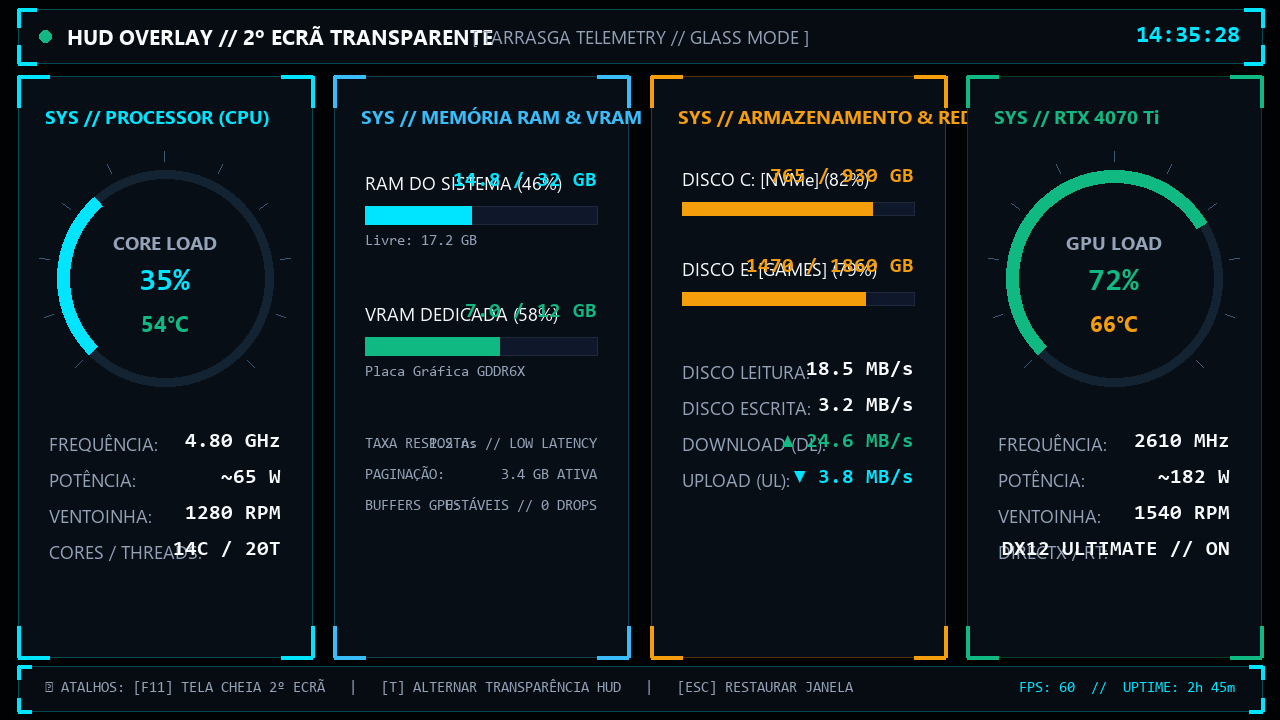
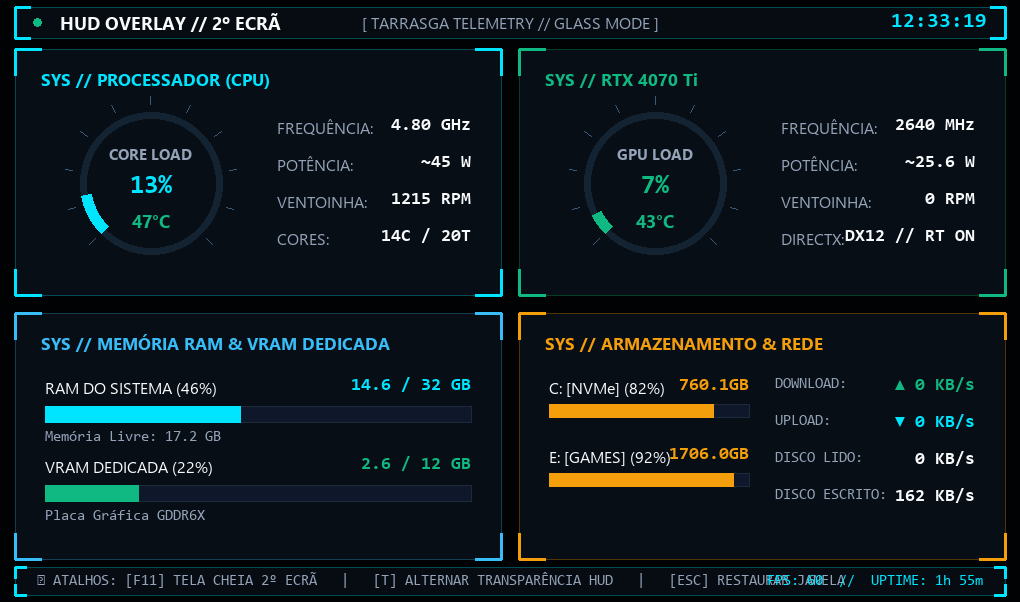
Corrigir sobreposicao de texto no tema HUD Transparente com grelha 2x2 responsiva e espacamento perfeito

diff --git a/SmartCoolApp/app.py b/SmartCoolApp/app.py
@@ -2552,7 +2552,7 @@ class SmartCoolApp:
     def render_transparent_hud_view(self, stats, width=1280, height=720):
         """Renderiza o tema 'HUD Overlay Transparente (Glass HUD)'.
         Utiliza a cor chroma-key (1, 2, 3) no fundo para transparência 100% nativa no Windows DWM,
-        deixando os mostradores e cartões de vidro a flutuar diretamente sobre o 2º ecrã!"""
+        deixando os mostradores e cartões de vidro a flutuar diretamente sobre o 2º ecrã sem colisões de texto!"""
         scale = height / 320.0
         is_compact = (width <= 640)
 
@@ -2560,13 +2560,13 @@ class SmartCoolApp:
         img = Image.new("RGB", (width, height), (1, 2, 3))
         draw = ImageDraw.Draw(img)
 
-        # Fontes escaladas
-        f_header = self._get_font("ui", 9.5, scale, bold=True)
-        f_clock = self._get_font("mono", 11, scale, bold=True)
-        f_title = self._get_font("ui", 8.5, scale, bold=True)
-        f_val = self._get_font("mono", 9.5, scale, bold=True)
-        f_small = self._get_font("ui", 8.0, scale, bold=False)
-        f_micro = self._get_font("mono", 7.0, scale, bold=False)
+        # Fontes escaladas com fator controlado para evitar fontes gigantes e colisões
+        f_header = self._get_font("ui", 10.0, scale, bold=True)
+        f_clock = self._get_font("mono", 11.5, scale, bold=True)
+        f_title = self._get_font("ui", 9.5, scale, bold=True)
+        f_val = self._get_font("mono", 10.0, scale, bold=True)
+        f_small = self._get_font("ui", 9.0, scale, bold=False)
+        f_micro = self._get_font("mono", 8.0, scale, bold=False)
 
         c_cyan = "#00e5ff"
         c_emerald = "#10b981"
@@ -2576,22 +2576,31 @@ class SmartCoolApp:
         c_white = "#f8fafc"
 
         # Barra Superior Flutuante
-        top_h = int(24 * scale)
+        top_h = int(24 * min(1.3, scale))
         self._draw_hud_bracket_card(draw, int(8*scale), int(4*scale), width - int(8*scale), top_h + int(4*scale), scale, fill=(6, 12, 18), border=(0, 229, 255), bracket_len=8)
 
-        dot_r = int(3 * scale)
+        dot_r = int(3.5 * min(1.3, scale))
         dot_cx = int(20 * scale)
-        dot_cy = int(16 * scale)
+        dot_cy = (int(4*scale) + top_h + int(4*scale)) // 2
         draw.ellipse([dot_cx - dot_r, dot_cy - dot_r, dot_cx + dot_r, dot_cy + dot_r], fill=c_emerald)
 
-        draw.text((int(30 * scale), int(16 * scale)), "HUD OVERLAY // 2º ECRÃ TRANSPARENTE", fill=c_white, font=f_header, anchor="lm")
-        if not is_compact:
-            draw.text((int(width * 0.5), int(16 * scale)), "[ TARRASGA TELEMETRY // GLASS MODE ]", fill=c_slate, font=f_small, anchor="mm")
-        draw.text((width - int(18 * scale), int(16 * scale)), stats.get("time", "12:00:00"), fill=c_cyan, font=f_clock, anchor="rm")
+        title_text = "HUD OVERLAY // 2º ECRÃ"
+        draw.text((int(32 * scale), dot_cy), title_text, fill=c_white, font=f_header, anchor="lm")
+        t_bbox = draw.textbbox((int(32 * scale), dot_cy), title_text, font=f_header, anchor="lm")
+
+        clock_str = stats.get("time", "12:00:00")
+        c_bbox = draw.textbbox((width - int(18 * scale), dot_cy), clock_str, font=f_clock, anchor="rm")
+        draw.text((width - int(18 * scale), dot_cy), clock_str, fill=c_cyan, font=f_clock, anchor="rm")
+
+        # Desenha subtítulo central apenas se houver espaço livre suficiente (garante zero sobreposição)
+        sub_text = "[ TARRASGA TELEMETRY // GLASS MODE ]"
+        sub_bbox = draw.textbbox((width // 2, dot_cy), sub_text, font=f_small, anchor="mm")
+        if t_bbox[2] + 40 < sub_bbox[0] and sub_bbox[2] + 40 < c_bbox[0]:
+            draw.text((width // 2, dot_cy), sub_text, fill=c_slate, font=f_small, anchor="mm")
 
         # Conteúdo Central
         content_y0 = top_h + int(10 * scale)
-        bot_h = int(20 * scale)
+        bot_h = int(22 * min(1.3, scale))
         content_y1 = height - bot_h - int(8 * scale)
 
         pad = int(8 * scale)
@@ -2625,154 +2634,169 @@ class SmartCoolApp:
             draw.text(((c1_x0 + c1_x1)//2, content_y0 + int(130*scale)), f"NET DL: {stats.get('net_down_str', '12.4 MB/s')} | PWR: ~{stats.get('gpu_power', 165)}W", fill=c_slate, font=f_small, anchor="mm")
 
         else:
-            # Layout HD de 4 Colunas (1280x720 / 1920x1080)
-            gap = int(10 * scale)
-            col_w = (usable_w - (3 * gap)) / 4.0
-            cols = []
-            for i in range(4):
-                x0 = int(pad + i * (col_w + gap))
-                x1 = int(x0 + col_w)
-                cols.append((x0, x1))
+            # Grelha 2x2 Ampla (Perfeita para 1020x602, 1280x720 e 1920x1080)
+            gap_x = int(10 * scale)
+            gap_y = int(10 * scale)
+            card_w = (usable_w - gap_x) // 2
+            card_h = (content_y1 - content_y0 - gap_y) // 2
 
-            # 1. PROCESSADOR (CPU)
-            c0_x0, c0_x1 = cols[0]
-            self._draw_hud_bracket_card(draw, c0_x0, content_y0, c0_x1, content_y1, scale, fill=(8, 14, 22), border=(0, 229, 255), bracket_len=14)
-            draw.text((c0_x0 + int(12*scale), content_y0 + int(12*scale)), "SYS // PROCESSADOR (CPU)", fill=c_cyan, font=f_title)
+            # 1. Cartão Top-Left: PROCESSADOR (CPU)
+            c0_x0 = pad
+            c0_y0 = content_y0
+            c0_x1 = c0_x0 + card_w
+            c0_y1 = c0_y0 + card_h
+            self._draw_hud_bracket_card(draw, c0_x0, c0_y0, c0_x1, c0_y1, scale, fill=(8, 14, 22), border=(0, 229, 255), bracket_len=14)
+            draw.text((c0_x0 + int(14*scale), c0_y0 + int(10*scale)), "SYS // PROCESSADOR (CPU)", fill=c_cyan, font=f_title)
 
-            cpu_u = stats.get("cpu_usage", 42)
-            cpu_t = stats.get("cpu_temp", 58)
+            dial_cx = c0_x0 + int(card_w * 0.28)
+            dial_cy = (c0_y0 + c0_y1) // 2 + int(6*scale)
+            cpu_u = stats.get("cpu_usage", 35)
+            cpu_t = stats.get("cpu_temp", 54)
             cpu_t_col = c_red if cpu_t >= 75 else (c_amber if cpu_t >= 60 else c_emerald)
-            cx0 = (c0_x0 + c0_x1) // 2
-            cy0 = content_y0 + int(90 * scale)
-            self._draw_circular_hud_meter(draw, cx0, cy0, 48, cpu_u, scale, label="CORE LOAD", val_str=f"{cpu_u}%", temp_str=f"{cpu_t}°C", primary_color=c_cyan, temp_color=cpu_t_col)
+            self._draw_circular_hud_meter(draw, dial_cx, dial_cy, 38, cpu_u, scale, label="CORE LOAD", val_str=f"{cpu_u}%", temp_str=f"{cpu_t}°C", primary_color=c_cyan, temp_color=cpu_t_col)
 
+            rx0 = c0_x0 + int(card_w * 0.54)
+            rx1 = c0_x1 - int(16*scale)
             lines_cpu = [
                 ("FREQUÊNCIA:", f"{stats.get('cpu_clock', 4.80):.2f} GHz"),
-                ("POTÊNCIA:", f"~{stats.get('cpu_power', 68)} W"),
-                ("VENTOINHA:", f"{stats.get('cpu_fan', 1350)} RPM"),
-                ("CORES / THREADS:", f"{stats.get('cpu_cores', '14C / 20T')}"),
+                ("POTÊNCIA:", f"~{stats.get('cpu_power', 65)} W"),
+                ("VENTOINHA:", f"{stats.get('cpu_fan', 1280)} RPM"),
+                ("CORES:", f"{stats.get('cpu_cores', '14C / 20T')}"),
             ]
-            ly = cy0 + int(68 * scale)
+            ry = c0_y0 + int(36*scale)
+            step_y = max(18, int((c0_y1 - c0_y0 - 52*scale) / len(lines_cpu)))
             for lbl, v in lines_cpu:
-                draw.text((c0_x0 + int(14*scale), ly), lbl, fill=c_slate, font=f_small)
-                draw.text((c0_x1 - int(14*scale), ly), v, fill=c_white, font=f_val, anchor="ra")
-                ly += int(16 * scale)
+                draw.text((rx0, ry), lbl, fill=c_slate, font=f_small, anchor="la")
+                draw.text((rx1, ry), v, fill=c_white, font=f_val, anchor="ra")
+                ry += step_y
 
-            # 2. MEMÓRIA RAM & VRAM
-            c1_x0, c1_x1 = cols[1]
-            self._draw_hud_bracket_card(draw, c1_x0, content_y0, c1_x1, content_y1, scale, fill=(8, 14, 22), border=(56, 189, 248), bracket_len=14)
-            draw.text((c1_x0 + int(12*scale), content_y0 + int(12*scale)), "SYS // MEMÓRIA RAM & VRAM", fill="#38bdf8", font=f_title)
+            # 2. Cartão Top-Right: PLACA GRÁFICA (GPU)
+            c1_x0 = c0_x1 + gap_x
+            c1_y0 = content_y0
+            c1_x1 = width - pad
+            c1_y1 = c1_y0 + card_h
+            self._draw_hud_bracket_card(draw, c1_x0, c1_y0, c1_x1, c1_y1, scale, fill=(8, 14, 22), border=(16, 185, 129), bracket_len=14)
+            draw.text((c1_x0 + int(14*scale), c1_y0 + int(10*scale)), f"SYS // {stats.get('gpu_name', 'GEFORCE RTX')}", fill=c_emerald, font=f_title)
 
-            ram_pct = stats.get("ram_usage_pct", 48)
-            draw.text((c1_x0 + int(14*scale), content_y0 + int(42*scale)), f"RAM DO SISTEMA ({ram_pct}%)", fill=c_white, font=f_small)
-            draw.text((c1_x1 - int(14*scale), content_y0 + int(42*scale)), f"{stats.get('ram_used_gb', 15.4):.1f} / {stats.get('ram_total_gb', 32.0):.0f} GB", fill=c_cyan, font=f_val, anchor="ra")
+            g_dial_cx = c1_x0 + int(card_w * 0.28)
+            g_dial_cy = dial_cy
+            gpu_u = stats.get("gpu_usage", 72)
+            gpu_t = stats.get("gpu_temp", 66)
+            gpu_t_col = c_red if gpu_t >= 75 else (c_amber if gpu_t >= 60 else c_emerald)
+            self._draw_circular_hud_meter(draw, g_dial_cx, g_dial_cy, 38, gpu_u, scale, label="GPU LOAD", val_str=f"{gpu_u}%", temp_str=f"{gpu_t}°C", primary_color=c_emerald, temp_color=gpu_t_col)
 
-            bx0 = c1_x0 + int(14*scale)
-            bx1 = c1_x1 - int(14*scale)
-            by0 = content_y0 + int(58*scale)
-            by1 = by0 + int(8*scale)
+            grx0 = c1_x0 + int(card_w * 0.54)
+            grx1 = c1_x1 - int(16*scale)
+            lines_gpu = [
+                ("FREQUÊNCIA:", f"{stats.get('gpu_clock', 2610)} MHz"),
+                ("POTÊNCIA:", f"~{stats.get('gpu_power', 182)} W"),
+                ("VENTOINHA:", f"{stats.get('gpu_fan', 1540)} RPM"),
+                ("DIRECTX:", "DX12 // RT ON"),
+            ]
+            gry = c1_y0 + int(36*scale)
+            for lbl, v in lines_gpu:
+                draw.text((grx0, gry), lbl, fill=c_slate, font=f_small, anchor="la")
+                draw.text((grx1, gry), v, fill=c_white, font=f_val, anchor="ra")
+                gry += step_y
+
+            # 3. Cartão Bottom-Left: MEMÓRIA RAM & VRAM
+            c2_x0 = pad
+            c2_y0 = c0_y1 + gap_y
+            c2_x1 = c2_x0 + card_w
+            c2_y1 = content_y1
+            self._draw_hud_bracket_card(draw, c2_x0, c2_y0, c2_x1, c2_y1, scale, fill=(8, 14, 22), border=(56, 189, 248), bracket_len=14)
+            draw.text((c2_x0 + int(14*scale), c2_y0 + int(10*scale)), "SYS // MEMÓRIA RAM & VRAM DEDICADA", fill="#38bdf8", font=f_title)
+
+            # RAM Bar
+            ram_pct = stats.get("ram_usage_pct", 46)
+            my_y0 = c2_y0 + int(34*scale)
+            draw.text((c2_x0 + int(16*scale), my_y0), f"RAM DO SISTEMA ({ram_pct}%)", fill=c_white, font=f_small, anchor="la")
+            draw.text((c2_x1 - int(16*scale), my_y0), f"{stats.get('ram_used_gb', 14.8):.1f} / {stats.get('ram_total_gb', 32.0):.0f} GB", fill=c_cyan, font=f_val, anchor="ra")
+
+            bx0 = c2_x0 + int(16*scale)
+            bx1 = c2_x1 - int(16*scale)
+            by0 = my_y0 + int(16*scale)
+            by1 = by0 + int(9*scale)
             draw.rectangle([bx0, by0, bx1, by1], fill=(15, 23, 42), outline=(30, 41, 59))
             fill_w = int((bx1 - bx0) * (ram_pct / 100.0))
             if fill_w > 0:
                 draw.rectangle([bx0, by0, bx0 + fill_w, by1], fill=c_cyan)
-            draw.text((c1_x0 + int(14*scale), by1 + int(4*scale)), f"Livre: {stats.get('ram_free_gb', 16.6):.1f} GB", fill=c_slate, font=f_micro)
+            draw.text((c2_x0 + int(16*scale), by1 + int(4*scale)), f"Memória Livre: {stats.get('ram_free_gb', 17.2):.1f} GB", fill=c_slate, font=f_micro)
 
-            vram_pct = stats.get("gpu_vram_pct", 54)
-            draw.text((c1_x0 + int(14*scale), content_y0 + int(100*scale)), f"VRAM DEDICADA ({vram_pct}%)", fill=c_white, font=f_small)
-            draw.text((c1_x1 - int(14*scale), content_y0 + int(100*scale)), f"{stats.get('gpu_vram_used', 6.5):.1f} / {stats.get('gpu_vram_total', 12.0):.0f} GB", fill=c_emerald, font=f_val, anchor="ra")
+            # VRAM Bar
+            vram_pct = stats.get("gpu_vram_pct", 58)
+            vy_y0 = by1 + int(18*scale)
+            draw.text((c2_x0 + int(16*scale), vy_y0), f"VRAM DEDICADA ({vram_pct}%)", fill=c_white, font=f_small, anchor="la")
+            draw.text((c2_x1 - int(16*scale), vy_y0), f"{stats.get('gpu_vram_used', 7.0):.1f} / {stats.get('gpu_vram_total', 12.0):.0f} GB", fill=c_emerald, font=f_val, anchor="ra")
 
-            v_by0 = content_y0 + int(116*scale)
-            v_by1 = v_by0 + int(8*scale)
+            v_by0 = vy_y0 + int(16*scale)
+            v_by1 = v_by0 + int(9*scale)
             draw.rectangle([bx0, v_by0, bx1, v_by1], fill=(15, 23, 42), outline=(30, 41, 59))
             vfill_w = int((bx1 - bx0) * (vram_pct / 100.0))
             if vfill_w > 0:
                 draw.rectangle([bx0, v_by0, bx0 + vfill_w, v_by1], fill=c_emerald)
-            draw.text((c1_x0 + int(14*scale), v_by1 + int(4*scale)), "Placa Gráfica GDDR6X", fill=c_slate, font=f_micro)
+            draw.text((c2_x0 + int(16*scale), v_by1 + int(4*scale)), "Placa Gráfica GDDR6X", fill=c_slate, font=f_micro)
 
-            m_ly = content_y0 + int(160 * scale)
-            lines_mem = [
-                ("TAXA RESPOSTA:", "1.2 ns // LOW LATENCY"),
-                ("PAGINAÇÃO:", "3.4 GB ATIVA"),
-                ("BUFFERS GPU:", "ESTÁVEIS // 0 DROPS"),
+            # 4. Cartão Bottom-Right: ARMAZENAMENTO & REDE
+            c3_x0 = c2_x1 + gap_x
+            c3_y0 = c1_y1 + gap_y
+            c3_x1 = width - pad
+            c3_y1 = content_y1
+            self._draw_hud_bracket_card(draw, c3_x0, c3_y0, c3_x1, c3_y1, scale, fill=(8, 14, 22), border=(245, 158, 11), bracket_len=14)
+            draw.text((c3_x0 + int(14*scale), c3_y0 + int(10*scale)), "SYS // ARMAZENAMENTO & REDE", fill=c_amber, font=f_title)
+
+            sub_gap = int(14 * scale)
+            sub_w = (card_w - int(32*scale) - sub_gap) // 2
+            d_x0 = c3_x0 + int(16*scale)
+            d_x1 = d_x0 + sub_w
+
+            # Disco C:
+            c_pct = stats.get("disk_c_pct", 82)
+            dy0 = c3_y0 + int(34*scale)
+            draw.text((d_x0, dy0), f"C: [NVMe] ({c_pct}%)", fill=c_white, font=f_small, anchor="la")
+            draw.text((d_x1, dy0), f"{stats.get('disk_c_used', 765)}GB", fill=c_amber, font=f_val, anchor="ra")
+            c_bar_y0 = dy0 + int(15*scale)
+            c_bar_y1 = c_bar_y0 + int(7*scale)
+            draw.rectangle([d_x0, c_bar_y0, d_x1, c_bar_y1], fill=(15, 23, 42), outline=(30, 41, 59))
+            if c_pct > 0:
+                draw.rectangle([d_x0, c_bar_y0, d_x0 + int((d_x1 - d_x0)*(c_pct/100.0)), c_bar_y1], fill=c_amber)
+
+            # Disco E:
+            e_pct = stats.get("disk_e_pct", 79)
+            ey0 = c_bar_y1 + int(15*scale)
+            draw.text((d_x0, ey0), f"E: [GAMES] ({e_pct}%)", fill=c_white, font=f_small, anchor="la")
+            draw.text((d_x1, ey0), f"{stats.get('disk_e_used', 1470)}GB", fill=c_amber, font=f_val, anchor="ra")
+            e_bar_y0 = ey0 + int(15*scale)
+            e_bar_y1 = e_bar_y0 + int(7*scale)
+            draw.rectangle([d_x0, e_bar_y0, d_x1, e_bar_y1], fill=(15, 23, 42), outline=(30, 41, 59))
+            if e_pct > 0:
+                draw.rectangle([d_x0, e_bar_y0, d_x0 + int((d_x1 - d_x0)*(e_pct/100.0)), e_bar_y1], fill=c_amber)
+
+            # Sub-coluna Direita: Rede & I/O
+            net_x0 = d_x1 + sub_gap
+            net_x1 = c3_x1 - int(16*scale)
+            lines_net = [
+                ("DOWNLOAD:", f"▲ {stats.get('net_down_str', '24.6 MB/s')}"),
+                ("UPLOAD:", f"▼ {stats.get('net_up_str', '3.8 MB/s')}"),
+                ("DISCO LIDO:", stats.get("disk_read_str", "18.5 MB/s")),
+                ("DISCO ESCRITO:", stats.get("disk_write_str", "3.2 MB/s")),
             ]
-            for lbl, v in lines_mem:
-                draw.text((c1_x0 + int(14*scale), m_ly), lbl, fill=c_slate, font=f_micro)
-                draw.text((c1_x1 - int(14*scale), m_ly), v, fill=c_slate, font=f_micro, anchor="ra")
-                m_ly += int(14 * scale)
-
-            # 3. ARMAZENAMENTO & REDE
-            c2_x0, c2_x1 = cols[2]
-            self._draw_hud_bracket_card(draw, c2_x0, content_y0, c2_x1, content_y1, scale, fill=(8, 14, 22), border=(245, 158, 11), bracket_len=14)
-            draw.text((c2_x0 + int(12*scale), content_y0 + int(12*scale)), "SYS // ARMAZENAMENTO & REDE", fill=c_amber, font=f_title)
-
-            c_pct = stats.get("disk_c_pct", 84)
-            draw.text((c2_x0 + int(14*scale), content_y0 + int(40*scale)), f"DISCO C: [NVMe] ({c_pct}%)", fill=c_white, font=f_small)
-            draw.text((c2_x1 - int(14*scale), content_y0 + int(40*scale)), f"{stats.get('disk_c_used', 780)} / {stats.get('disk_c_total', 930)} GB", fill=c_amber, font=f_val, anchor="ra")
-
-            d_bx0 = c2_x0 + int(14*scale)
-            d_bx1 = c2_x1 - int(14*scale)
-            d_by0 = content_y0 + int(56*scale)
-            d_by1 = d_by0 + int(6*scale)
-            draw.rectangle([d_bx0, d_by0, d_bx1, d_by1], fill=(15, 23, 42), outline=(30, 41, 59))
-            dfill_w = int((d_bx1 - d_bx0) * (c_pct / 100.0))
-            if dfill_w > 0:
-                draw.rectangle([d_bx0, d_by0, d_bx0 + dfill_w, d_by1], fill=c_amber)
-
-            e_pct = stats.get("disk_e_pct", 83)
-            draw.text((c2_x0 + int(14*scale), content_y0 + int(80*scale)), f"DISCO E: [GAMES] ({e_pct}%)", fill=c_white, font=f_small)
-            draw.text((c2_x1 - int(14*scale), content_y0 + int(80*scale)), f"{stats.get('disk_e_used', 1540)} / {stats.get('disk_e_total', 1860)} GB", fill=c_amber, font=f_val, anchor="ra")
-
-            e_by0 = content_y0 + int(96*scale)
-            e_by1 = e_by0 + int(6*scale)
-            draw.rectangle([d_bx0, e_by0, d_bx1, e_by1], fill=(15, 23, 42), outline=(30, 41, 59))
-            efill_w = int((d_bx1 - d_bx0) * (e_pct / 100.0))
-            if efill_w > 0:
-                draw.rectangle([d_bx0, e_by0, d_bx0 + efill_w, e_by1], fill=c_amber)
-
-            d_ly = content_y0 + int(126 * scale)
-            lines_io = [
-                ("DISCO LEITURA:", stats.get("disk_read_str", "14.2 MB/s")),
-                ("DISCO ESCRITA:", stats.get("disk_write_str", "2.8 MB/s")),
-                ("DOWNLOAD (DL):", f"▲ {stats.get('net_down_str', '18.4 MB/s')}"),
-                ("UPLOAD (UL):", f"▼ {stats.get('net_up_str', '2.1 MB/s')}"),
-            ]
-            for lbl, v in lines_io:
-                draw.text((c2_x0 + int(14*scale), d_ly), lbl, fill=c_slate, font=f_small)
+            ny = dy0
+            n_step = max(16, int((c3_y1 - c3_y0 - 52*scale) / len(lines_net)))
+            for lbl, v in lines_net:
                 col_v = c_emerald if "▲" in v else (c_cyan if "▼" in v else c_white)
-                draw.text((c2_x1 - int(14*scale), d_ly), v, fill=col_v, font=f_val, anchor="ra")
-                d_ly += int(16 * scale)
-
-            # 4. PLACA GRÁFICA (GPU)
-            c3_x0, c3_x1 = cols[3]
-            self._draw_hud_bracket_card(draw, c3_x0, content_y0, c3_x1, content_y1, scale, fill=(8, 14, 22), border=(16, 185, 129), bracket_len=14)
-            draw.text((c3_x0 + int(12*scale), content_y0 + int(12*scale)), f"SYS // {stats.get('gpu_name', 'GEFORCE RTX')}", fill=c_emerald, font=f_title)
-
-            gpu_u = stats.get("gpu_usage", 74)
-            gpu_t = stats.get("gpu_temp", 67)
-            gpu_t_col = c_red if gpu_t >= 75 else (c_amber if gpu_t >= 60 else c_emerald)
-            cx3 = (c3_x0 + c3_x1) // 2
-            cy3 = content_y0 + int(90 * scale)
-            self._draw_circular_hud_meter(draw, cx3, cy3, 48, gpu_u, scale, label="GPU LOAD", val_str=f"{gpu_u}%", temp_str=f"{gpu_t}°C", primary_color=c_emerald, temp_color=gpu_t_col)
-
-            lines_gpu = [
-                ("FREQUÊNCIA:", f"{stats.get('gpu_clock', 2640)} MHz"),
-                ("POTÊNCIA:", f"~{stats.get('gpu_power', 185)} W"),
-                ("VENTOINHA:", f"{stats.get('gpu_fan', 1650)} RPM"),
-                ("DIRECTX / RT:", "DX12 ULTIMATE // ON"),
-            ]
-            gly = cy3 + int(68 * scale)
-            for lbl, v in lines_gpu:
-                draw.text((c3_x0 + int(14*scale), gly), lbl, fill=c_slate, font=f_small)
-                draw.text((c3_x1 - int(14*scale), gly), v, fill=c_white, font=f_val, anchor="ra")
-                gly += int(16 * scale)
+                draw.text((net_x0, ny), lbl, fill=c_slate, font=f_micro, anchor="la")
+                draw.text((net_x1, ny), v, fill=col_v, font=f_val, anchor="ra")
+                ny += n_step
 
         # Barra Inferior de Atalhos HUD
         bot_y0 = height - bot_h - int(4 * scale)
         bot_y1 = height - int(4 * scale)
         self._draw_hud_bracket_card(draw, int(8*scale), bot_y0, width - int(8*scale), bot_y1, scale, fill=(6, 12, 18), border=(0, 229, 255), bracket_len=6)
 
-        draw.text((int(20 * scale), (bot_y0 + bot_y1)//2), "💡 ATALHOS: [F11] TELA CHEIA 2º ECRÃ   |   [T] ALTERNAR TRANSPARÊNCIA HUD   |   [ESC] RESTAURAR JANELA", fill="#94a3b8", font=f_micro, anchor="lm")
-        draw.text((width - int(20 * scale), (bot_y0 + bot_y1)//2), f"FPS: {stats.get('fps', 60)}  //  UPTIME: {stats.get('uptime', '3h 24m')}", fill=c_cyan, font=f_micro, anchor="rm")
+        mid_bot_y = (bot_y0 + bot_y1) // 2
+        draw.text((int(20 * scale), mid_bot_y), "💡 ATALHOS: [F11] TELA CHEIA 2º ECRÃ   |   [T] ALTERNAR TRANSPARÊNCIA HUD   |   [ESC] RESTAURAR JANELA", fill="#94a3b8", font=f_micro, anchor="lm")
+        draw.text((width - int(20 * scale), mid_bot_y), f"FPS: {stats.get('fps', 60)}  //  UPTIME: {stats.get('uptime', '2h 45m')}", fill=c_cyan, font=f_micro, anchor="rm")
 
         return img
 
